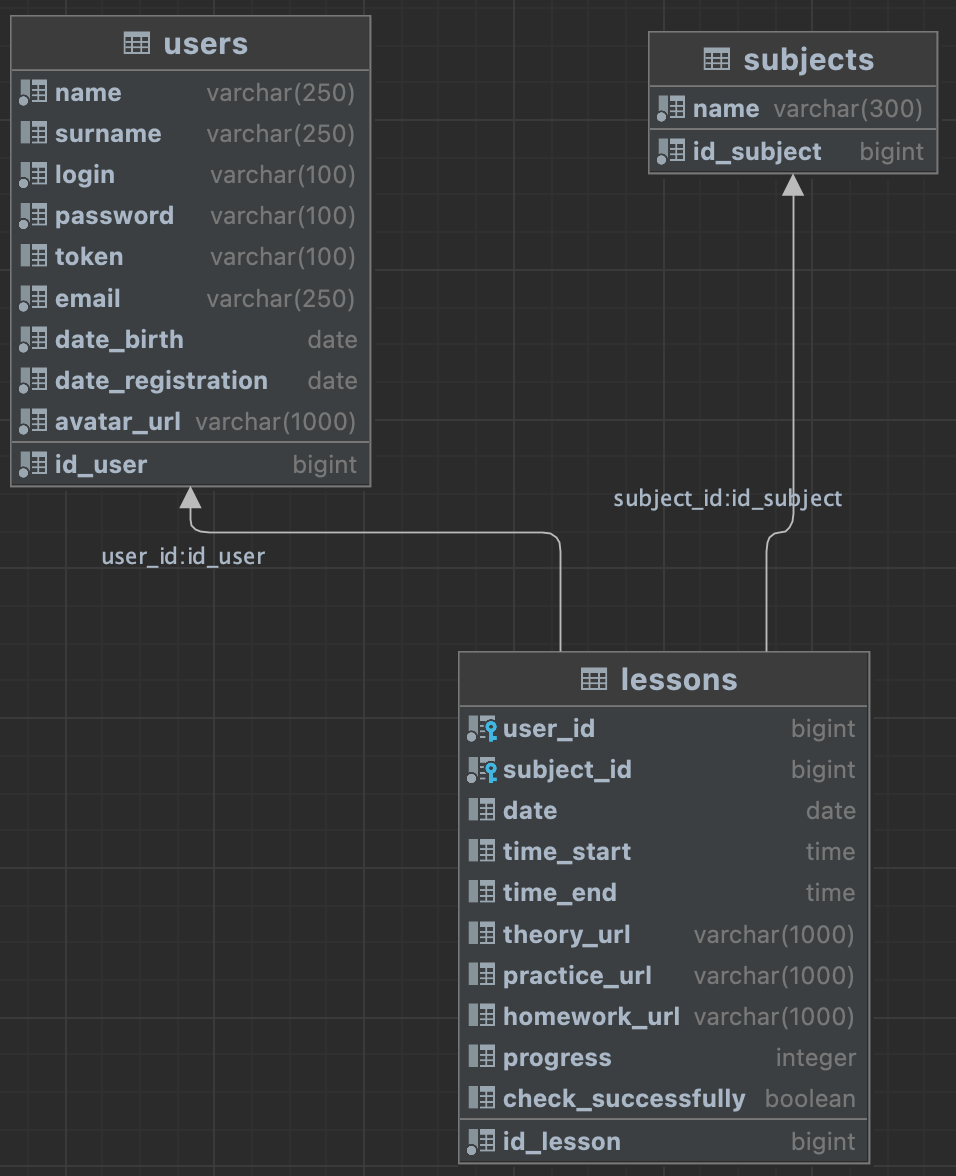
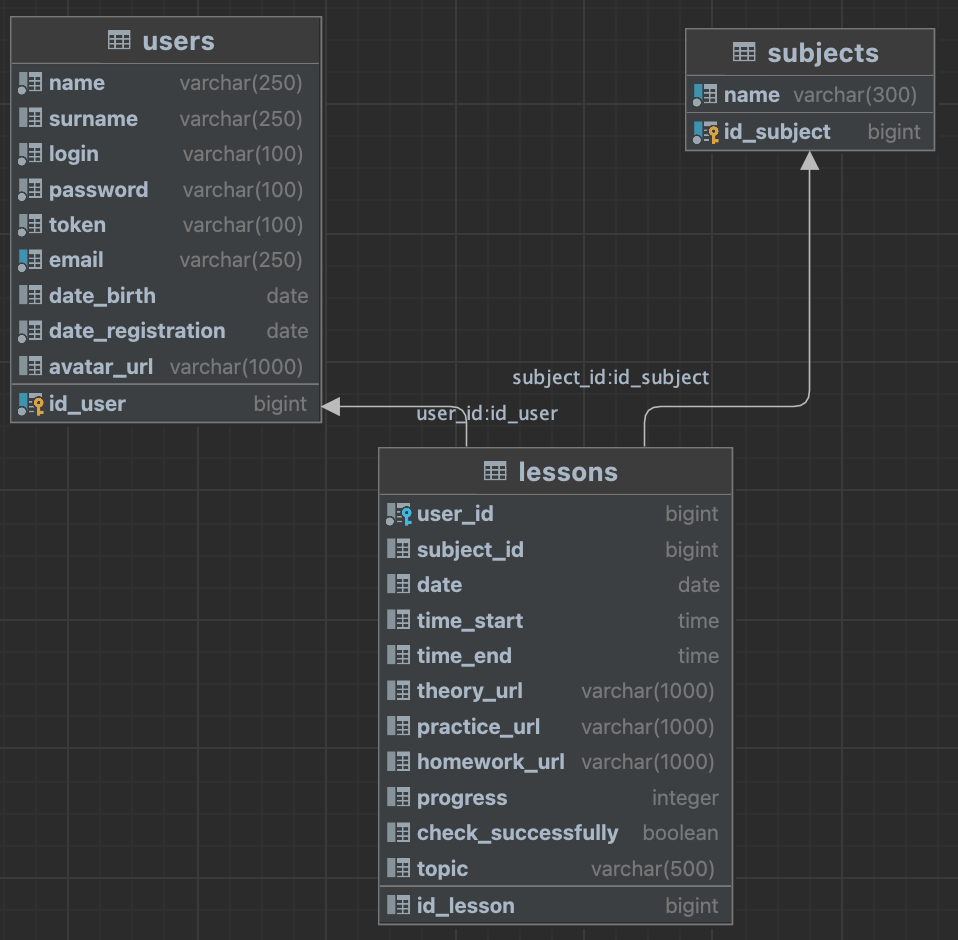
docs: обновление документации: описаны ограничения к полю email по стандарту, обновлена схема БД

Changed region(s): [[0.0, 0.0, 1.0, 1.0]]

diff --git a/README.md b/README.md
@@ -108,14 +108,14 @@ Content-Type : application/json
 
 Ограничения на длину полей при создании пользователя:
 
-| Поле      | Ограничение                                                                            | Код ответа | Ответ  в случае если ограничение не выполнено                                                                                                 |
-|-----------|----------------------------------------------------------------------------------------|------------|-----------------------------------------------------------------------------------------------------------------------------------------------|
-| name      | Обязательное, не пустое, не более 250 символов                                         | 400        | {<br/>"status": "BAD_REQUEST",  <br/>"message": "Имя должно быть не больше 250 знаков; ",  <br/>"date": "2023-09-11 19:06:04"<br/>}           |
-| surname   | Не обязательное, не более 250 символов                                                 | 400        | {<br/>"status": "BAD_REQUEST",  <br/>"message": "Фамилия должна быть не больше 250 знаков; ",  <br/>"date": "2023-09-11 19:06:04"<br/>}       |
-| login     | Обязательное, не пустое, не более 100 символов                                         | 400        | {<br/>"status": "BAD_REQUEST",  <br/>"message": "Login должен быть не больше 100 знаков; ",  <br/>"date": "2023-09-11 19:06:04"<br/>}         |
-| password  | Обязательное, не пустое, не более 100 символов                                         | 400        | {<br/>"status": "BAD_REQUEST",  <br/>"message": "Пароль должен быть не больше 100 знаков; ",  <br/>"date": "2023-09-11 19:06:04"<br/>}        |
-| email     | Обязательное, не пустое, не более 250 символов, должно соответствовать фоормату  Email | 400        | {<br/>"status": "BAD_REQUEST",  <br/>"message": "Email должен быть не больше 250 знаков; ",  <br/>"date": "2023-09-11 19:06:04"<br/>}         |
-| avatarUrl | Не обязательное, не более 1000 символов                                                | 400        | {<br/>"status": "BAD_REQUEST",  <br/>"message": "Длина адреса должна быть не больше 1000 знаков; ",  <br/>"date": "2023-09-11 19:06:04"<br/>} |
+| Поле      | Ограничение                                                                                                                                                                                                                       | Код ответа | Ответ  в случае если ограничение не выполнено                                                                                                 |
+|-----------|-----------------------------------------------------------------------------------------------------------------------------------------------------------------------------------------------------------------------------------|------------|-----------------------------------------------------------------------------------------------------------------------------------------------|
+| name      | Обязательное, не пустое, не более 250 символов                                                                                                                                                                                    | 400        | {<br/>"status": "BAD_REQUEST",  <br/>"message": "Имя должно быть не больше 250 знаков; ",  <br/>"date": "2023-09-11 19:06:04"<br/>}           |
+| surname   | Не обязательное, не более 250 символов                                                                                                                                                                                            | 400        | {<br/>"status": "BAD_REQUEST",  <br/>"message": "Фамилия должна быть не больше 250 знаков; ",  <br/>"date": "2023-09-11 19:06:04"<br/>}       |
+| login     | Обязательное, не пустое, не более 100 символов                                                                                                                                                                                    | 400        | {<br/>"status": "BAD_REQUEST",  <br/>"message": "Login должен быть не больше 100 знаков; ",  <br/>"date": "2023-09-11 19:06:04"<br/>}         |
+| password  | Обязательное, не пустое, не более 100 символов                                                                                                                                                                                    | 400        | {<br/>"status": "BAD_REQUEST",  <br/>"message": "Пароль должен быть не больше 100 знаков; ",  <br/>"date": "2023-09-11 19:06:04"<br/>}        |
+| email     | Обязательное, не пустое, не более 250 символов, должно соответствовать фоормату  Email: в стандарте указано, что имя пользователя не должно превышать 64 символа, имя домена ограничено 255 символами, а знак @ – это один символ | 400        | {<br/>"status": "BAD_REQUEST",  <br/>"message": "Email должен быть не больше 250 знаков; ",  <br/>"date": "2023-09-11 19:06:04"<br/>}         |
+| avatarUrl | Не обязательное, не более 1000 символов                                                                                                                                                                                           | 400        | {<br/>"status": "BAD_REQUEST",  <br/>"message": "Длина адреса должна быть не больше 1000 знаков; ",  <br/>"date": "2023-09-11 19:06:04"<br/>} |
 
 #### Запрос PATCH /users/{userId} - изменение информации о пользователе
 
@@ -177,14 +177,14 @@ Content-Type : application/json
 
 Ограничения на длину полей при редактировании пользователя:
 
-| Поле      | Ограничение                                                                            | Код ответа | Ответ  в случае если ограничение не выполнено                                                                                                 |
-|-----------|----------------------------------------------------------------------------------------|------------|-----------------------------------------------------------------------------------------------------------------------------------------------|
-| name      | Обязательное, не пустое, не более 250 символов                                         | 400        | {<br/>"status": "BAD_REQUEST",  <br/>"message": "Имя должно быть не больше 250 знаков; ",  <br/>"date": "2023-09-11 19:06:04"<br/>}           | 
-| surname   | Не обязательное, не более 250 символов                                                 | 400        | {<br/>"status": "BAD_REQUEST",  <br/>"message": "Фамилия должна быть не больше 250 знаков; ",  <br/>"date": "2023-09-11 19:06:04"<br/>}       |
-| login     | Обязательное, не пустое, не более 100 символов                                         | 400        | {<br/>"status": "BAD_REQUEST",  <br/>"message": "Login должен быть не больше 100 знаков; ",  <br/>"date": "2023-09-11 19:06:04"<br/>}         |
-| password  | Может быть пустым                                                                      |            |                                                                                                                                               |
-| email     | Обязательное, не пустое, не более 250 символов, должно соответствовать фоормату  Email | 400        | {<br/>"status": "BAD_REQUEST",  <br/>"message": "Email должен быть не больше 250 знаков; ",  <br/>"date": "2023-09-11 19:06:04"<br/>}         |
-| avatarUrl | Не обязательное, не более 1000 символов                                                | 400        | {<br/>"status": "BAD_REQUEST",  <br/>"message": "Длина адреса должна быть не больше 1000 знаков; ",  <br/>"date": "2023-09-11 19:06:04"<br/>} |
+| Поле      | Ограничение                                                                                                                                                                                                                        | Код ответа | Ответ  в случае если ограничение не выполнено                                                                                                 |
+|-----------|------------------------------------------------------------------------------------------------------------------------------------------------------------------------------------------------------------------------------------|------------|-----------------------------------------------------------------------------------------------------------------------------------------------|
+| name      | Обязательное, не пустое, не более 250 символов                                                                                                                                                                                     | 400        | {<br/>"status": "BAD_REQUEST",  <br/>"message": "Имя должно быть не больше 250 знаков; ",  <br/>"date": "2023-09-11 19:06:04"<br/>}           | 
+| surname   | Не обязательное, не более 250 символов                                                                                                                                                                                             | 400        | {<br/>"status": "BAD_REQUEST",  <br/>"message": "Фамилия должна быть не больше 250 знаков; ",  <br/>"date": "2023-09-11 19:06:04"<br/>}       |
+| login     | Обязательное, не пустое, не более 100 символов                                                                                                                                                                                     | 400        | {<br/>"status": "BAD_REQUEST",  <br/>"message": "Login должен быть не больше 100 знаков; ",  <br/>"date": "2023-09-11 19:06:04"<br/>}         |
+| password  | Может быть пустым                                                                                                                                                                                                                  |            |                                                                                                                                               |
+| email     | Обязательное, не пустое, не более 250 символов, должно соответствовать фоормату  Email: в стандарте указано, что имя пользователя не должно превышать 64 символа, имя домена ограничено 255 символами, а знак @ – это один символ  | 400        | {<br/>"status": "BAD_REQUEST",  <br/>"message": "Email должен быть не больше 250 знаков; ",  <br/>"date": "2023-09-11 19:06:04"<br/>}         |
+| avatarUrl | Не обязательное, не более 1000 символов                                                                                                                                                                                            | 400        | {<br/>"status": "BAD_REQUEST",  <br/>"message": "Длина адреса должна быть не больше 1000 знаков; ",  <br/>"date": "2023-09-11 19:06:04"<br/>} |
 
 #### Запрос GET /users/{userId} - получение информации о пользователе (Имя, Фамилия, Логин, Дата рождения, Дата регистрации, Аватар)
 
@@ -495,7 +495,7 @@ Content-Type : application/json
 - 403 - нет прав для изменения данных
 - 404 - урок не найден
 - 500 - неизвестная ошибка сервера
-  
+
 Ответы в случае ошибок:  
 аналогичны ответам при создании урока
 
@@ -568,12 +568,10 @@ Content-Type : application/json
 - 403 - нет прав для получения данных
 - 500 - неизвестная ошибка сервера
 
-
 | Ошибка | Дополнительная информация               | Ответ                                                                                                                             |
 |--------|-----------------------------------------|-----------------------------------------------------------------------------------------------------------------------------------|
 | 403    | нет                                     | {<br/>"status": "FORBIDDEN",  <br/>"message": "Нет прав для совершения операции",  <br/>"date": "2023-09-11 19:06:04"<br/>}       |
 | 500    | нет                                     | {<br/>"status": "INTERNAL_SERVER_ERROR",  <br/>"message": "Неизвестная ошибка сервера",  <br/>"date": "2023-09-11 19:06:04"<br/>} |
-
 
 ## Фичи для дальнейшего развития
 
